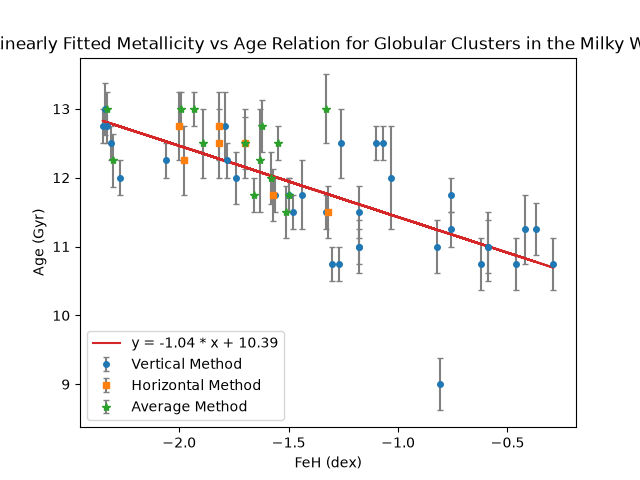
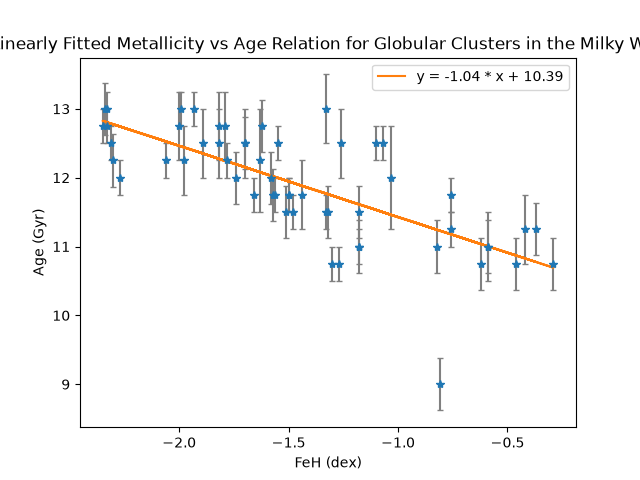
Linearly Fitted Metallicity vs Age, no separation for different data methods

diff --git a/src/age_metallicity_plots.py b/src/age_metallicity_plots.py
@@ -9,43 +9,15 @@ from scipy.signal import find_peaks
 # Read data from csv file
 vandenBergData = pd.read_csv("data/vandenBerg_table2.csv")
 
-# Separate based on method used for data extraction
-vertical = vandenBergData[(vandenBergData["Method"] == 'V')]
-horizontal = vandenBergData[(vandenBergData["Method"] == 'H')]
-average = vandenBergData[(vandenBergData["Method"] == 'A')]
-
-# Plot each method's data separately, with errorbars
+# Plot Metallicity vs Age with errorbars
 plt.errorbar(
-    vertical["FeH"],
-    vertical["Age"],
-    yerr = vertical["Age_err"],
-    fmt = 'o', 
-    ecolor = 'gray',
-    markersize = 4,
-    capsize = 2,
-    label = 'Vertical Method'
-)
-
-plt.errorbar(
-    horizontal["FeH"],
-    horizontal["Age"],
-    yerr = horizontal["Age_err"],
-    fmt = 's', 
-    ecolor = 'gray',
-    markersize = 4,
-    capsize = 2,
-    label = 'Horizontal Method'
-)
-
-plt.errorbar(
-    average["FeH"],
-    average["Age"],
-    yerr = average["Age_err"],
+    vandenBergData["FeH"],
+    vandenBergData["Age"],
+    yerr = vandenBergData["Age_err"],
     fmt = '*', 
     ecolor = 'gray',
     markersize = 6,
     capsize = 2,
-    label = 'Average Method'
 )
 
 # Add labels and title
